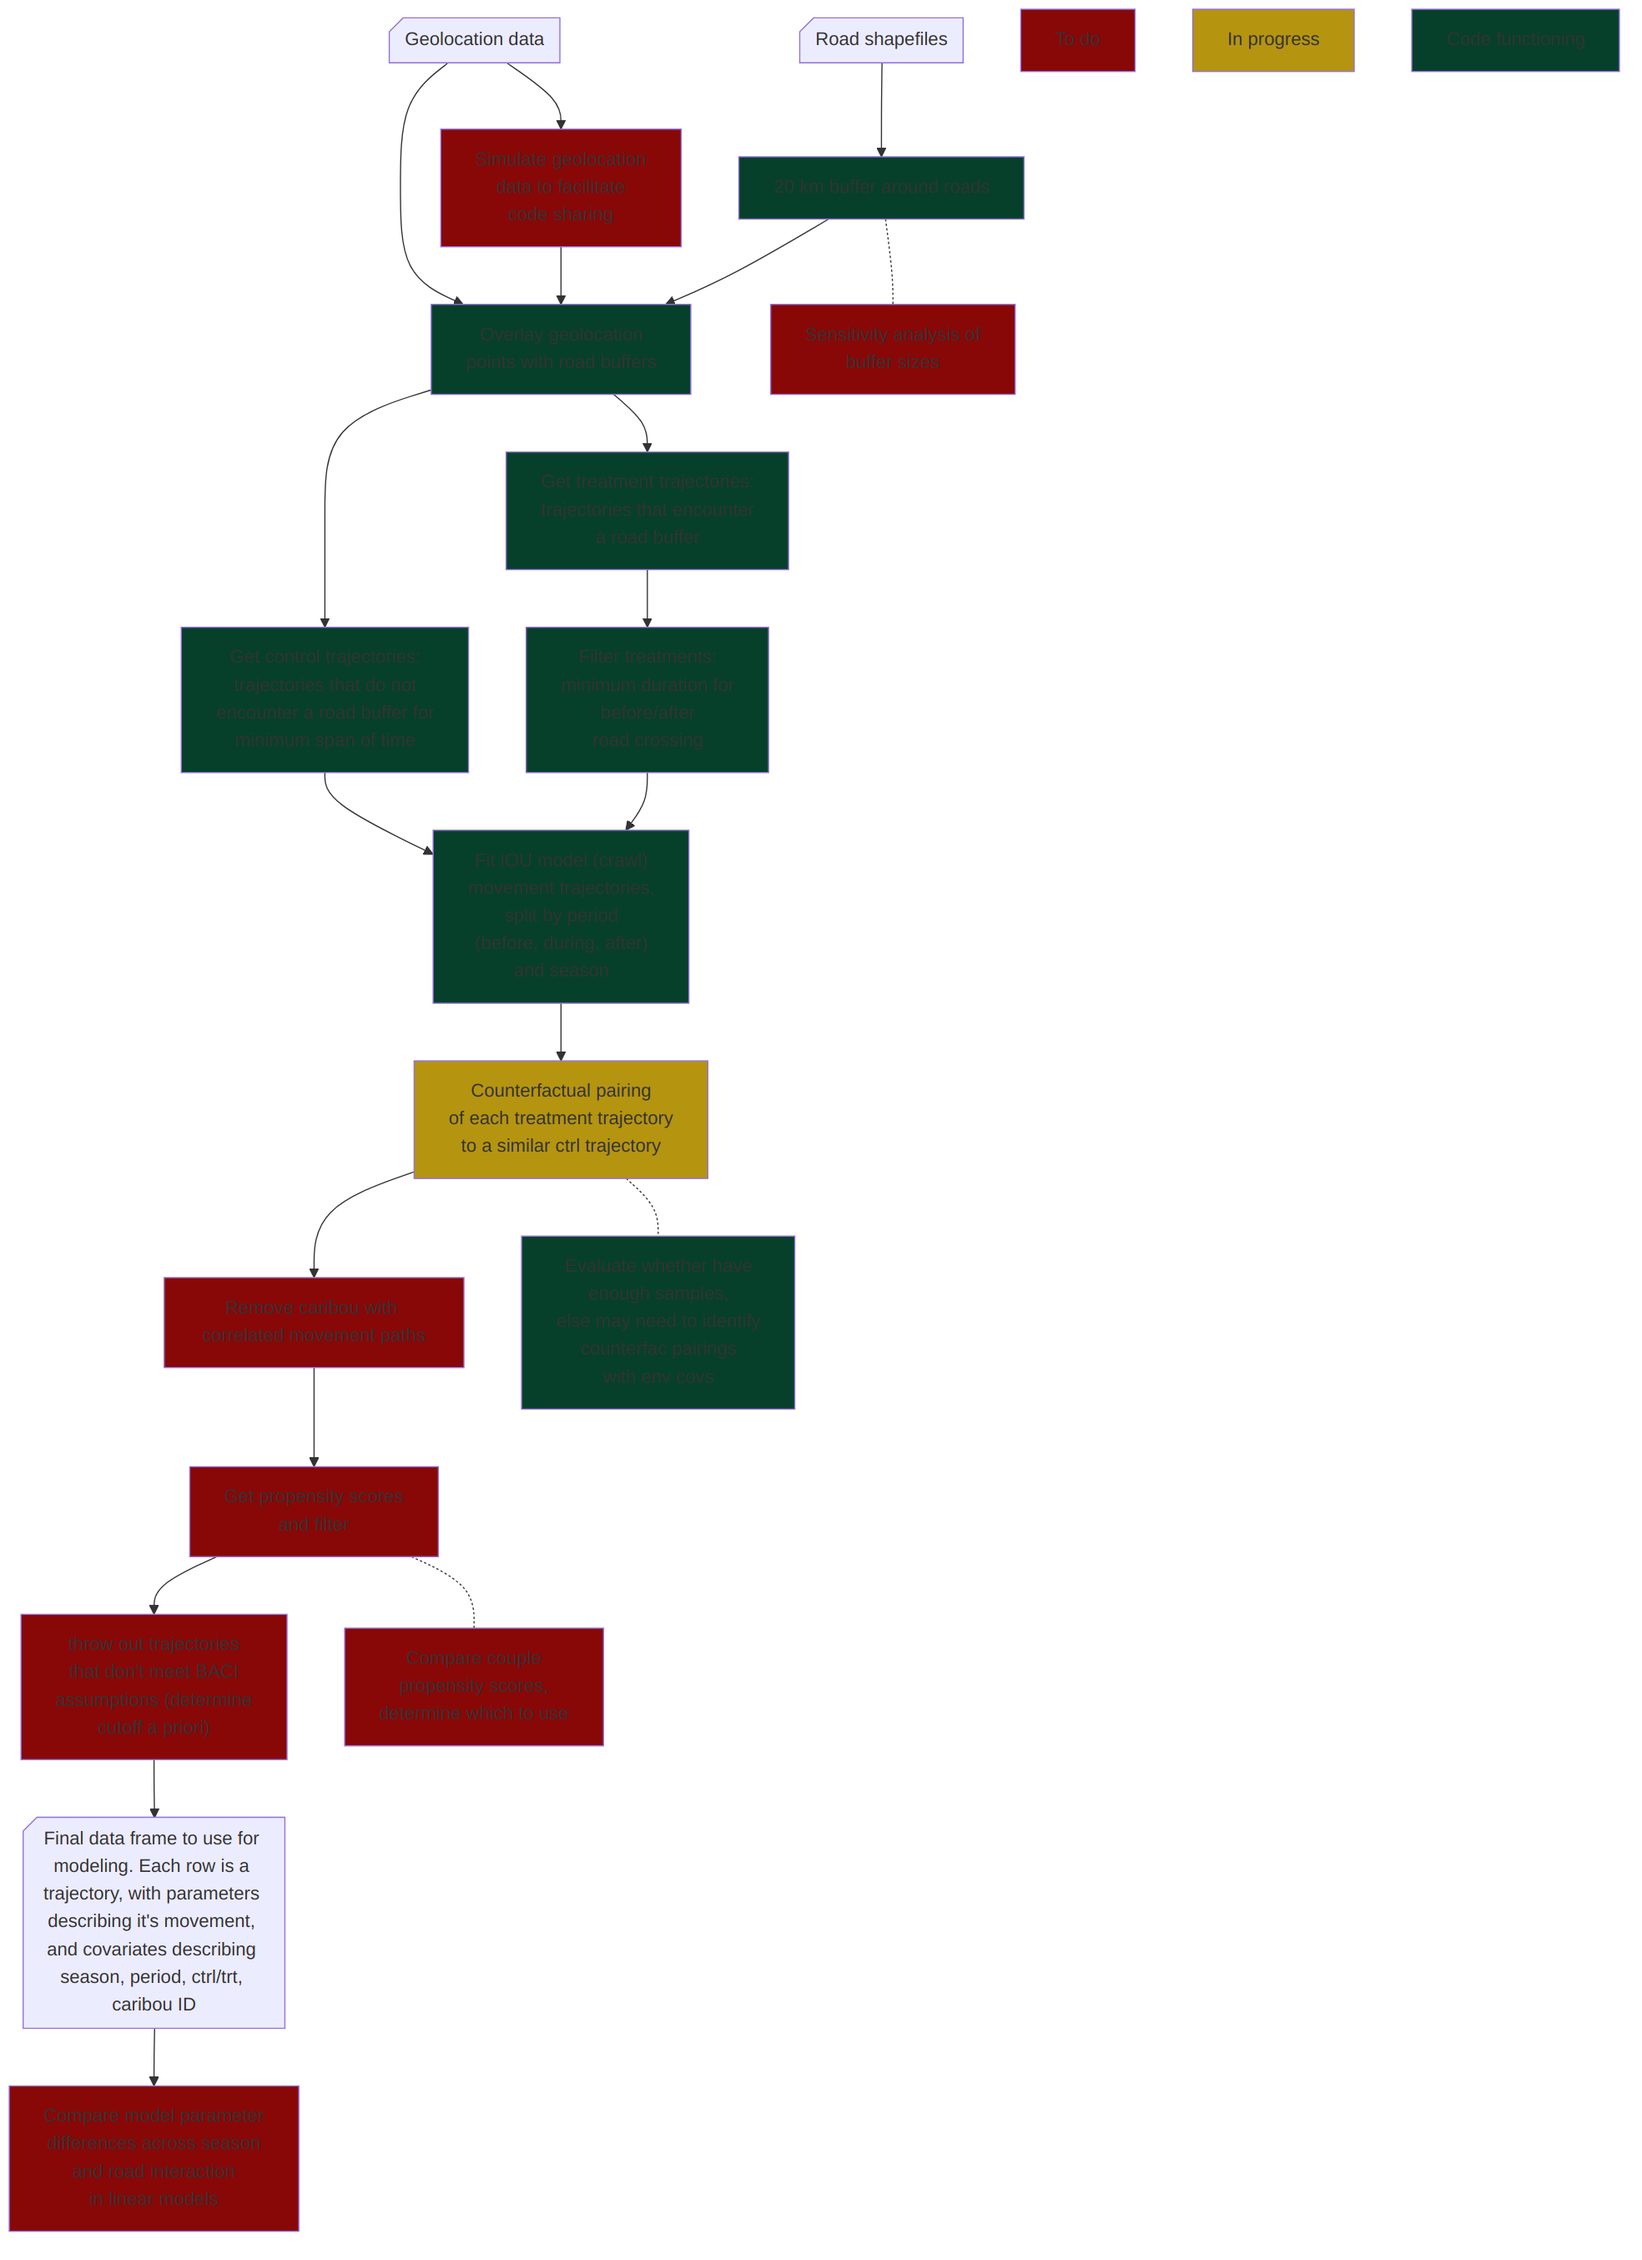
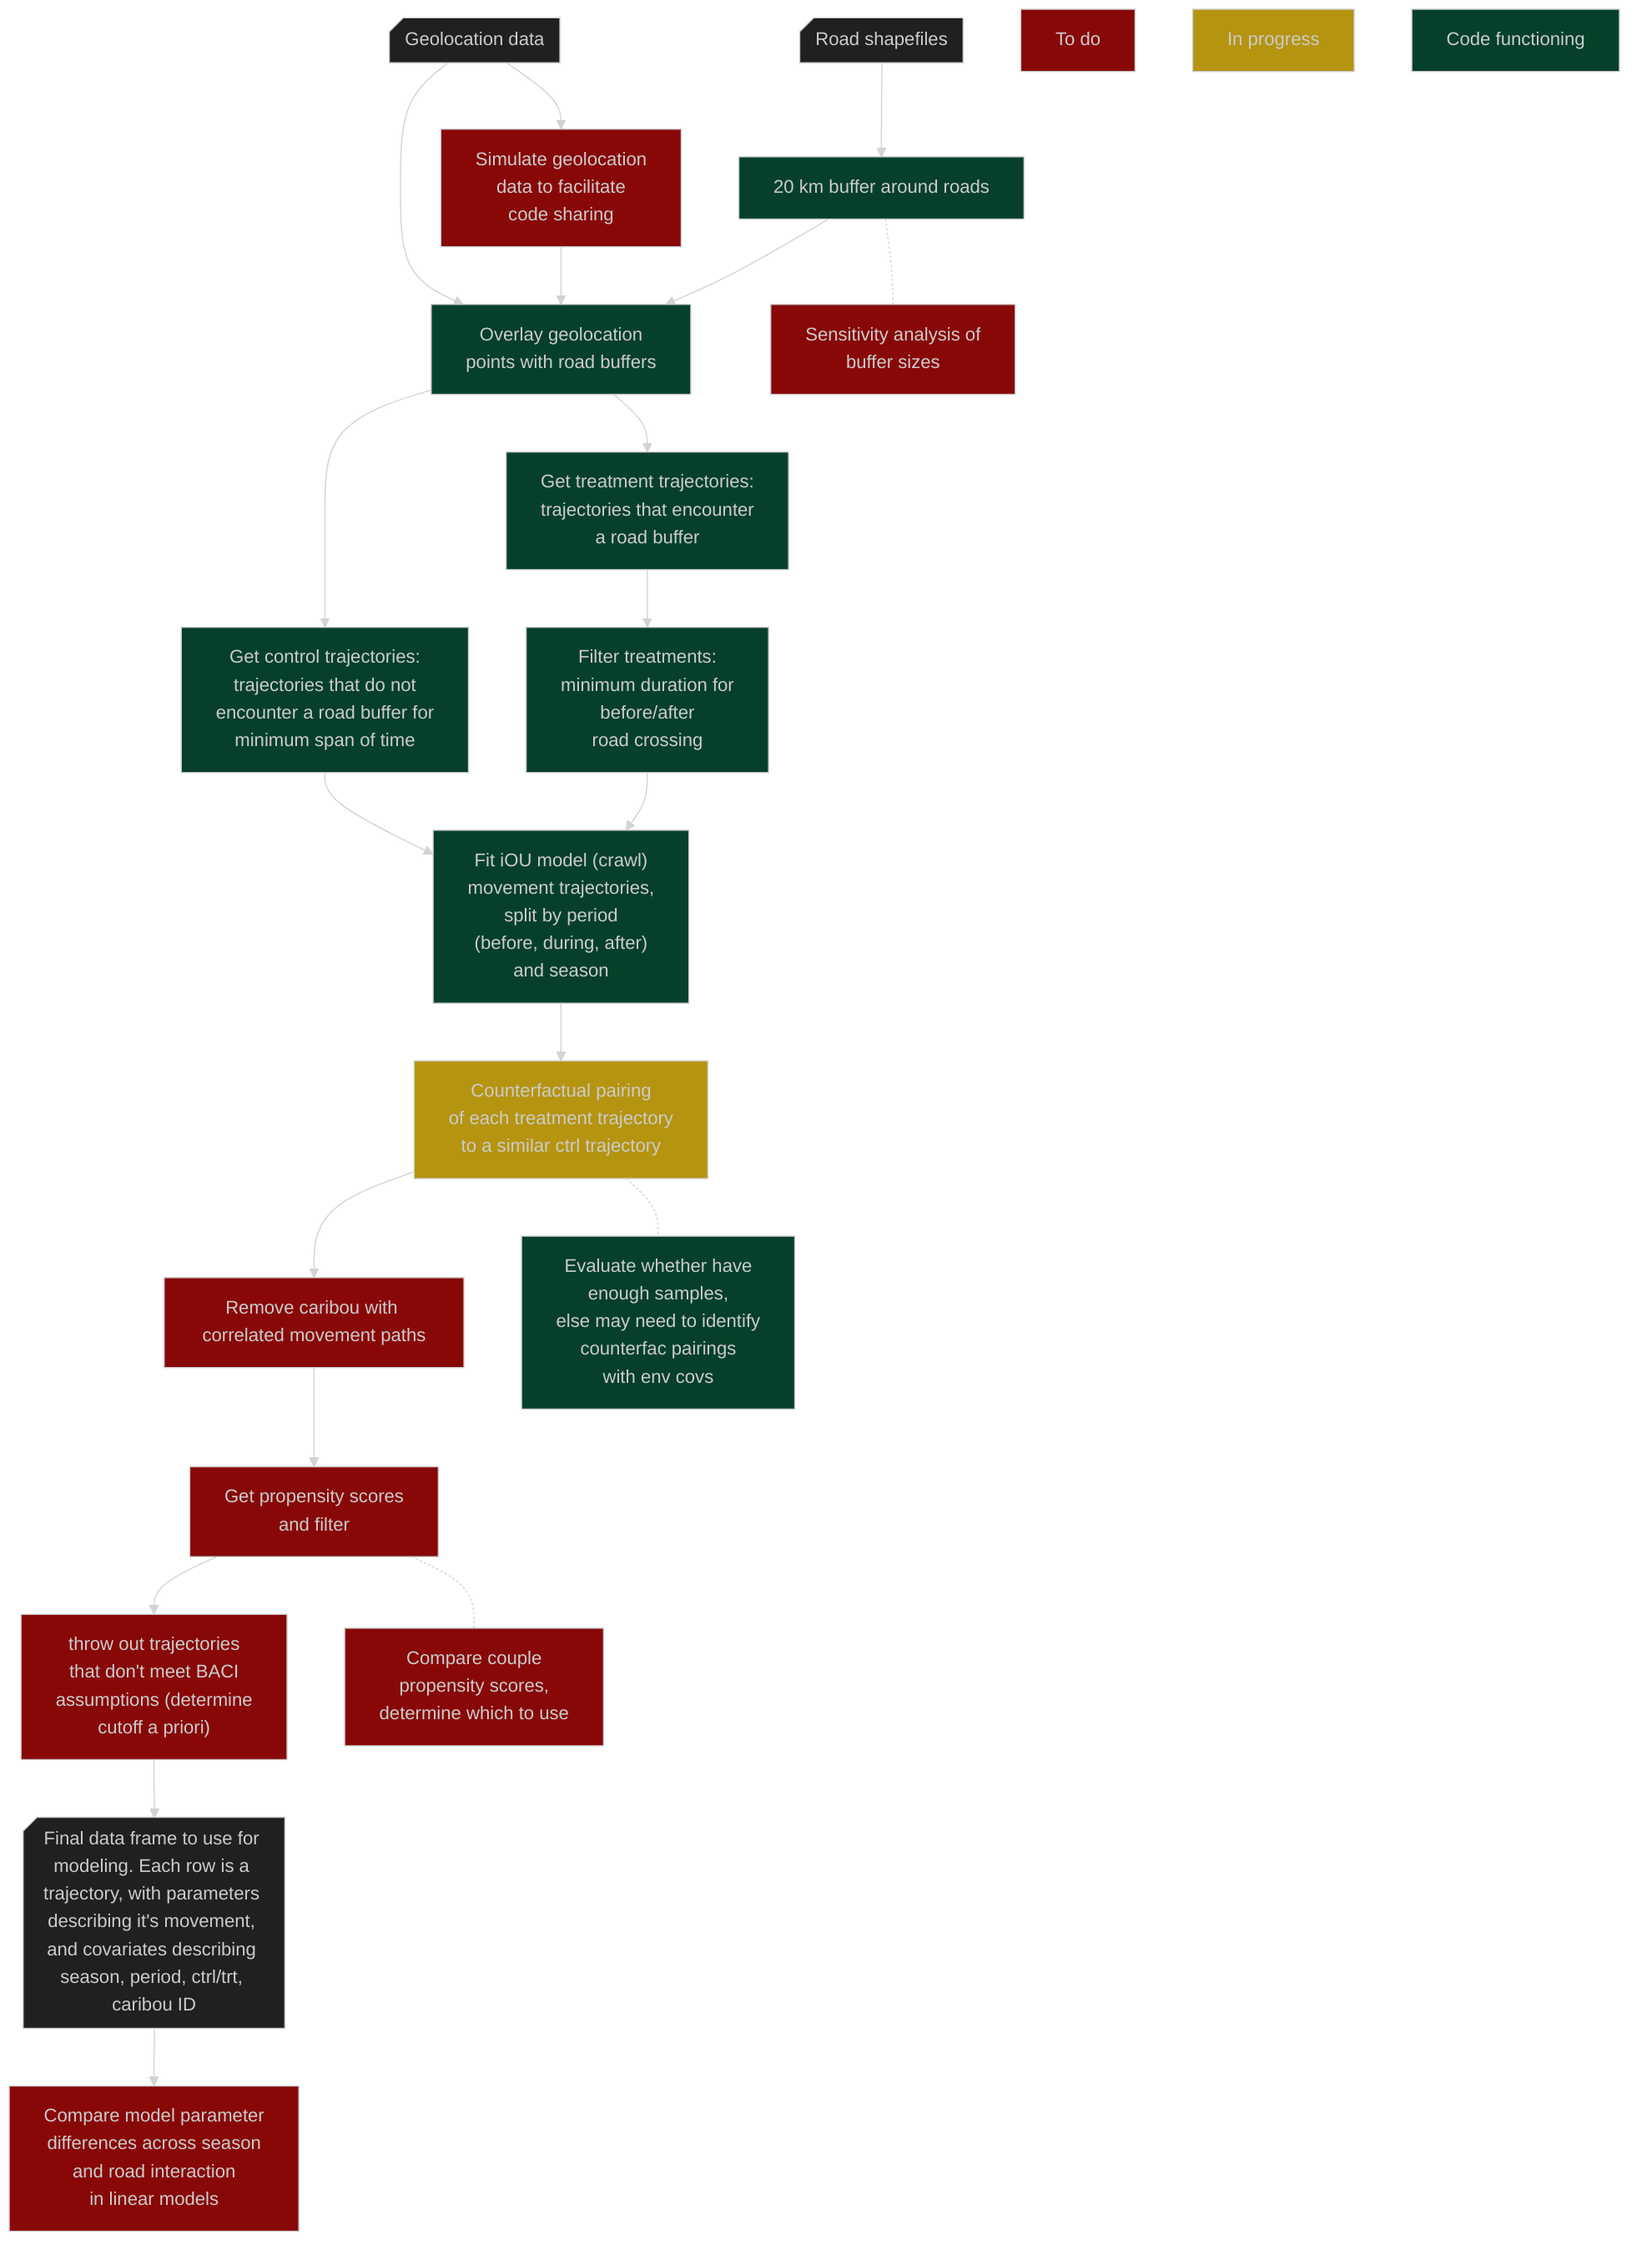
update formatting

diff --git a/Readme.md b/Readme.md
@@ -1,7 +1,5 @@
 MvBACI
 ================
-KAC
-02/17/2026
 
 ## Overview
 
